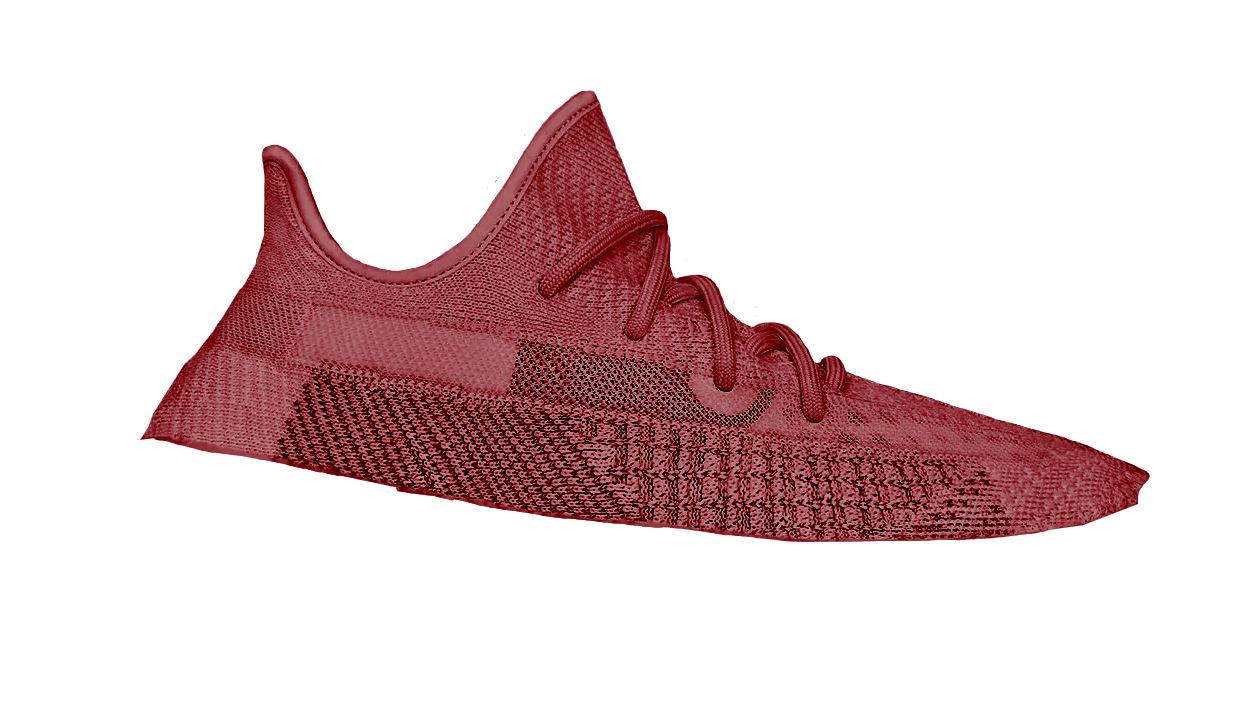
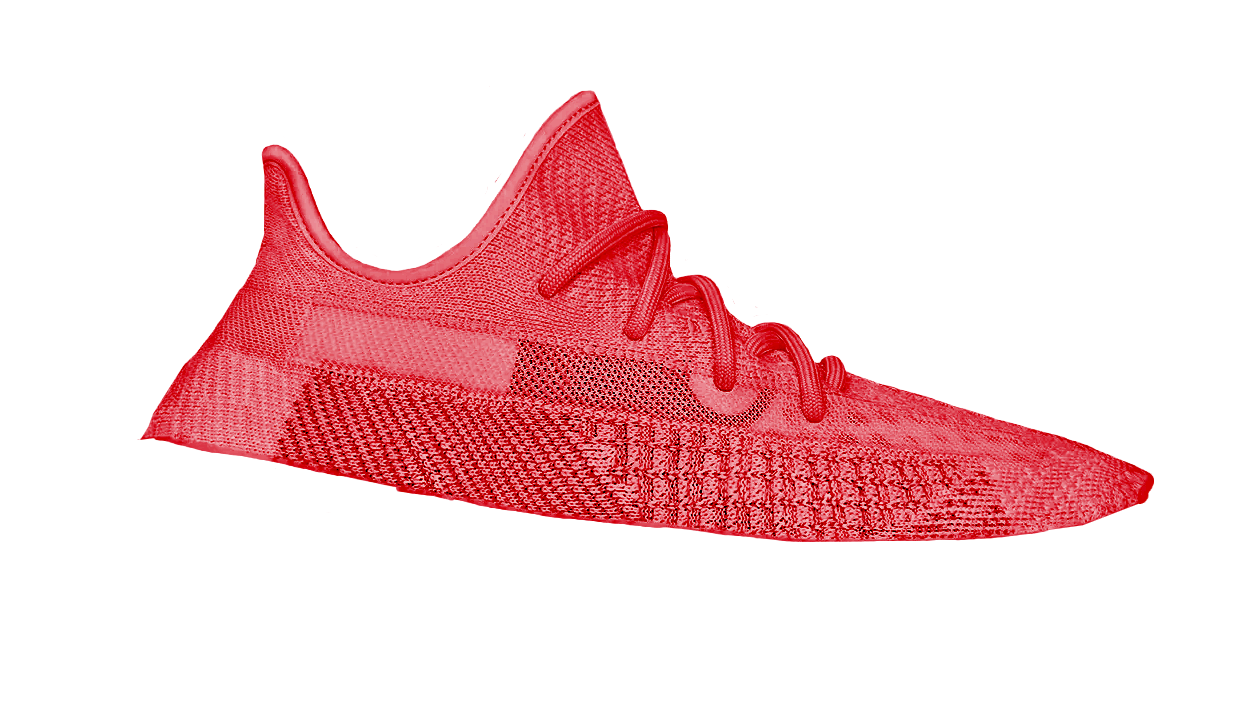
Added all parts

Changed region(s): [[0.0919, 0.1232, 0.9492, 0.7703]]

diff --git a/src/components/colorCustomizer/ColorCustomizer.tsx b/src/components/colorCustomizer/ColorCustomizer.tsx
@@ -1,6 +1,5 @@
 import * as React from 'react'
 
-import { sep } from 'path'
 import { IGenericPart } from '../../utils/constants'
 import './ColorCustomizer.scss'
 
@@ -19,39 +18,61 @@ export interface IColorProperties {
 }
 
 const ColorCustomizer = (props: IProps) => {
+  const { selectedPart, saveCSSToStorage, allPartsCSS } = props
+
   const [saturation, setSaturation] = React.useState<number>(1)
   const [hue, setHue] = React.useState<number>(0)
   const [sepia, setSepia] = React.useState<number>(0)
   const [brightness, setBrightness] = React.useState<number>(1)
 
+  const allPartsCSSFilter: { [partKey: string]: { filter: string } } = {}
+
+  if (props.allPartsCSS) {
+    Object.keys(props.allPartsCSS).forEach(partKey => {
+      if (partKey === selectedPart?.id) {
+        const currCSS = combineIntoCSSFilter({ saturation, hue, sepia, brightness })
+
+        allPartsCSSFilter[partKey] = currCSS
+      } else {
+        const css = props.allPartsCSS ? combineIntoCSSFilter(props.allPartsCSS[partKey]) : undefined
+
+        if (css) {
+          allPartsCSSFilter[partKey] = css
+        }
+      }
+
+    })
+  }
+
   React.useEffect(() => {
-    if (props.selectedPart) {
-      props.saveCSSToStorage({ saturation, hue, sepia, brightness }, props.selectedPart)
+    if (selectedPart) {
+      saveCSSToStorage({ saturation, hue, sepia, brightness }, selectedPart)
     }
-  }, [saturation, hue, sepia, brightness])
+  }, [saturation, hue, sepia, brightness, selectedPart, saveCSSToStorage])
+
+  React.useEffect(() => {
+    if (selectedPart && allPartsCSS && allPartsCSS[selectedPart.id]) {
+      const properties = allPartsCSS[selectedPart.id]
+      setSaturation(properties.saturation)
+      setHue(properties.hue)
+      setSepia(properties.sepia)
+      setBrightness(properties.brightness)
+    }
+  }, [selectedPart])
 
   const slider = props.selectedPart && (
     <div className="color-customizer">
       <h4 className="selected-item">{props.selectedPart.name}</h4>
-      <GenericSlider name="Hue" min={0} max={360} value={hue} onChange={(e) => setHue(e)} />
-      <GenericSlider name="Saturation" min={0} max={15} value={saturation} onChange={(e) => setSaturation(e)} />
-      <GenericSlider name="Sepia" min={0} max={0.5} value={sepia} onChange={(e) => setSepia(e)} />
-      <GenericSlider name="Brightness" min={0.8} max={1.1} value={brightness} onChange={(e) => setBrightness(e)} />
+      <GenericSlider selectedPart={selectedPart} name="Hue" min={0} max={360} value={hue} onChange={(e) => setHue(e)} />
+      <GenericSlider selectedPart={selectedPart} name="Saturation" min={0} max={15} value={saturation} onChange={(e) => setSaturation(e)} />
+      <GenericSlider selectedPart={selectedPart} name="Sepia" min={0} max={0.5} value={sepia} onChange={(e) => setSepia(e)} />
+      <GenericSlider selectedPart={selectedPart} name="Brightness" min={0.2} max={1.1} value={brightness} onChange={(e) => setBrightness(e)} />
     </div>
   )
 
-  const allPartsCSS: { [partKey: string]: { filter: string } } = {}
-  
-  if (props.allPartsCSS) {
-    Object.keys(props.allPartsCSS).forEach(partKey => {
-      const css = combineIntoCSSFilter(props.allPartsCSS[partKey])
-      allPartsCSS[partKey] = css
-    })
-  }
-
   return (
     <React.Fragment>
-      {props.children(allPartsCSS, slider)}
+      {props.children(allPartsCSSFilter, slider)}
     </React.Fragment>
   )
 
@@ -60,14 +81,16 @@ const ColorCustomizer = (props: IProps) => {
   }
 }
 
-const GenericSlider = (props: { name: string, value: number, min: number, max: number, onChange: (v: number) => void }) => {
+const GenericSlider = (props: { selectedPart: IGenericPart | undefined, name: string, value: number, min: number, max: number, onChange: (v: number) => void }) => {
+  const overrides = props.selectedPart?.overrides
+
   return (
     <div className={`item ${props.name.toLowerCase()}`}>
       <span>{props.name}</span>
       <input 
         type="range"
-        min={props.min}
-        max={props.max}
+        min={(overrides && overrides[props.name.toLowerCase()]?.min) || props.min}
+        max={(overrides && overrides[props.name.toLowerCase()]?.max) || props.max}
         step="0.01"
         value={props.value}
         onChange={(e) => props.onChange(Number(e.target.value))}

diff --git a/src/utils/constants.ts b/src/utils/constants.ts
@@ -1,6 +1,14 @@
+import Laces350V2 from '../assets/350V2/laces.png'
 import Midsole350V2 from '../assets/350V2/midsole.png'
 import Outsole350V2 from '../assets/350V2/outsole.png'
+import Stripe350V2 from '../assets/350V2/stripe.png'
 import Upper350V2 from '../assets/350V2/upper.png'
+import UpperLip350V2 from '../assets/350V2/upper_lip.png'
+
+export interface IMinMax {
+  min?: number
+  max?: number
+}
 
 export interface IGenericPart {
   id: string
@@ -9,6 +17,11 @@ export interface IGenericPart {
   zindex: number // z-index
   category?: string
   file: string
+  overrides?: {
+    brightness?: IMinMax
+    saturation?: IMinMax
+    sepia?: IMinMax
+  }
 }
 
 export interface IShoe {
@@ -28,11 +41,48 @@ export const YEEZY_LINEUP: IShoe[] = [
     assets: [
       {
         id: 'upper',
-        name: 'upper',
+        name: 'Upper knit',
         zindex: 1,
         toggleable: false,
         category: 'upper',
         file: Upper350V2,
+        overrides: {
+          brightness: { max: 3 }
+        }
+      },
+      {
+        id: 'upperlip',
+        name: 'Upper lip',
+        zindex: 2,
+        toggleable: true,
+        category: 'upper',
+        file: UpperLip350V2,
+        overrides: {
+          brightness: { max: 3 }
+        }
+      },
+      {
+        id: 'stripe',
+        name: 'Stripe',
+        zindex: 3,
+        toggleable: true,
+        category: 'upper',
+        file: Stripe350V2,
+        overrides: {
+          brightness: { max: 3 }
+        }
+      },
+      {
+        id: 'laces',
+        name: 'laces',
+        zindex: 2,
+        toggleable: true,
+        category: 'laces',
+        file: Laces350V2,
+        overrides: {
+          brightness: { max: 2 },
+          saturation: { max: 3 },
+        }
       },
       {
         id: 'midsole',
